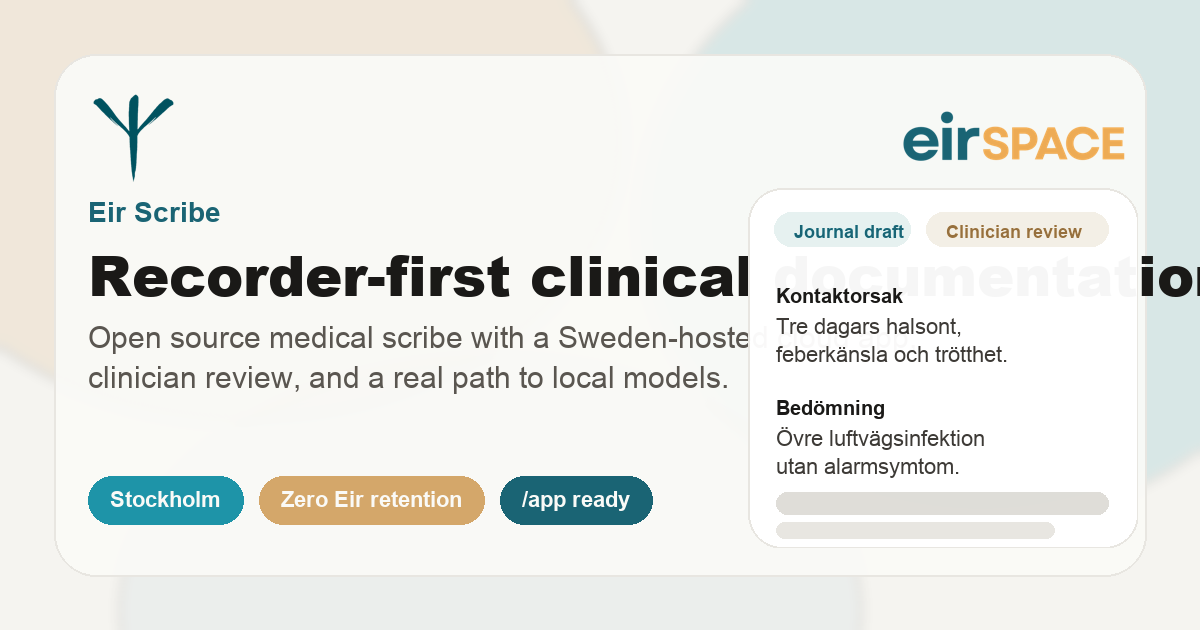
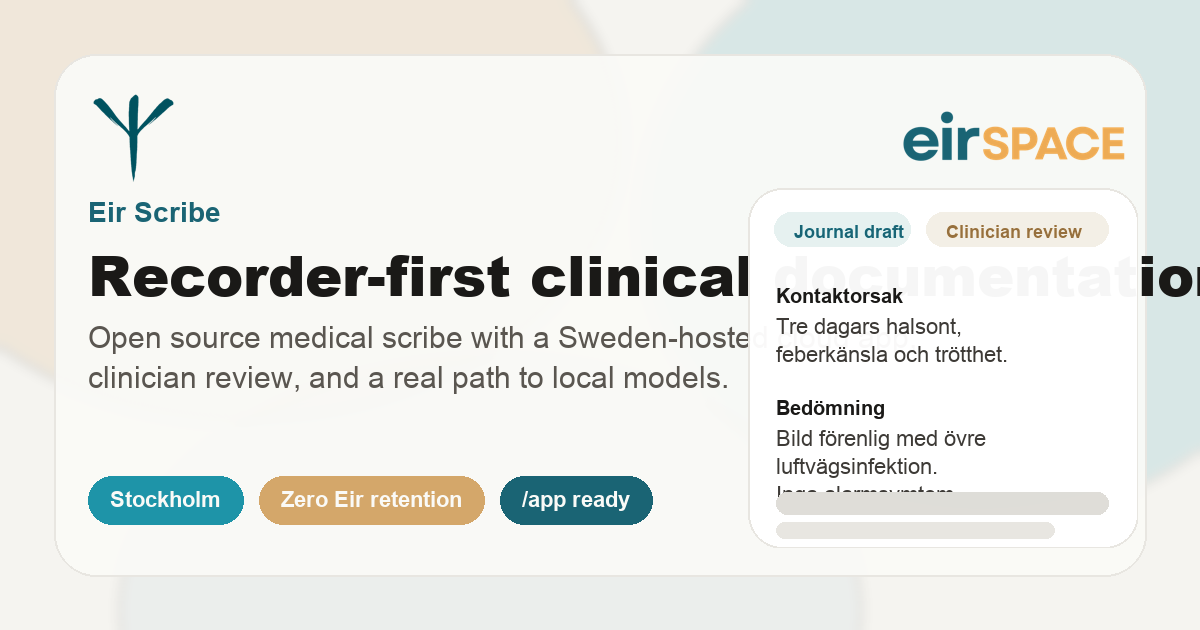
Refine Swedish preview assessment copy

Changed region(s): [[0.6475, 0.6635, 0.8325, 0.7841]]

diff --git a/public/index.html b/public/index.html
@@ -118,7 +118,7 @@
                   </div>
                   <p><strong>Kontaktorsak</strong><br />Tre dagars halsont, feberkänsla och trötthet.</p>
                   <p><strong>Status</strong><br />Rodnade tonsiller utan beläggning. Ingen andningspåverkan.</p>
-                  <p><strong>Bedömning</strong><br />Övre luftvägsinfektion utan alarmsymtom.</p>
+                  <p><strong>Bedömning</strong><br />Bild förenlig med övre luftvägsinfektion. Inga alarmsymtom.</p>
                   <p><strong>Plan</strong><br />Egenvårdsråd, vätska, åter vid försämring eller kvarstående feber.</p>
                 </div>
               </div>

diff --git a/scripts/generate-social-preview.py b/scripts/generate-social-preview.py
@@ -106,7 +106,7 @@ def main() -> None:
     panel_draw.text((28, 208), "Bedömning", font=load_font(FONT_BOLD, 20), fill="#1A1917")
     panel_draw.multiline_text(
         (28, 238),
-        "Övre luftvägsinfektion\nutan alarmsymtom.",
+        "Bild förenlig med övre\nluftvägsinfektion.\nInga alarmsymtom.",
         font=load_font(FONT_REGULAR, 22),
         fill="#3D3A36",
         spacing=8,
